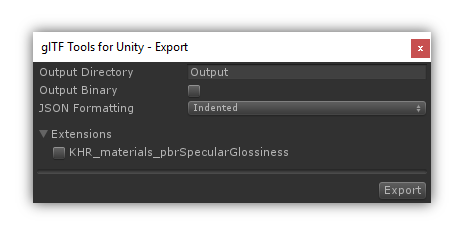
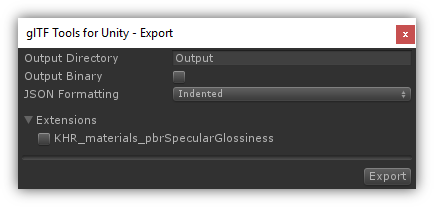
Various fixes - Add names to output images - Output one bin file instead of many - Output one samplers instead of many - Add generator property to asset

diff --git a/UnityProject/Assets/Gltf/Editor/Exporter.cs b/UnityProject/Assets/Gltf/Editor/Exporter.cs
@@ -74,27 +74,39 @@ namespace Gltf.Serialization
                 EditorGUI.indentLevel--;
             }
 
-            EditorGUILayout.TextArea(string.Empty, GUI.skin.horizontalSlider);
+            EditorGUILayout.LabelField(string.Empty, GUI.skin.horizontalSlider);
 
-            if (GUILayout.Button("Export", GUILayout.ExpandWidth(false)))
+            using (new GUILayout.HorizontalScope())
             {
-                var extensions = Extensions.None;
-                if (this.extension_KHR_materials_pbrSpecularGlossiness)
+                GUILayout.FlexibleSpace();
+                if (GUILayout.Button("Export"))
                 {
-                    extensions |= Extensions.KHR_materials_pbrSpecularGlossiness;
-                }
+                    var extensions = Extensions.None;
+                    if (this.extension_KHR_materials_pbrSpecularGlossiness)
+                    {
+                        extensions |= Extensions.KHR_materials_pbrSpecularGlossiness;
+                    }
 
-                Selection.gameObjects.ForEach(gameObject =>
-                {
-                    new[] { gameObject }.Export(this.outputDirectory, gameObject.name, this.outputBinary, this.jsonFormatting, extensions);
-                    Debug.LogFormat(gameObject, "[{0}] Exported {1}", DateTime.Now, gameObject.name);
-                });
+                    Selection.gameObjects.ForEach(gameObject =>
+                    {
+                        gameObject.Export(this.outputDirectory, gameObject.name, this.outputBinary, this.jsonFormatting, extensions);
+                        Debug.LogFormat(gameObject, "[{0}] Exported {1}", DateTime.Now, gameObject.name);
+                    });
+
+                    Debug.LogFormat("[{0}] Exported {1} game object(s)", DateTime.Now, Selection.gameObjects.Count());
+                }
             }
         }
     }
 
     public static class GameObjectExtensions
     {
+        public static void Export(this GameObject inputObject, string outputDirectory, string outputName, bool outputBinary, Formatting jsonFormatting, Extensions extensions)
+        {
+            var exporter = new Exporter();
+            exporter.Export(new[] { inputObject }, outputDirectory, outputName, outputBinary, jsonFormatting, extensions);
+        }
+
         public static void Export(this IEnumerable<GameObject> inputObjects, string outputDirectory, string outputName, bool outputBinary, Formatting jsonFormatting, Extensions extensions)
         {
             var exporter = new Exporter();
@@ -112,7 +124,7 @@ namespace Gltf.Serialization
         private string outputDirectory;
         private string outputName;
         private bool outputBinary;
-        private BinaryWriter binaryBodyWriter;
+        private BinaryWriter dataWriter;
         private Dictionary<UnityEngine.Object, int> objectToIndexCache;
         private List<Extension> extensions;
 
@@ -132,6 +144,7 @@ namespace Gltf.Serialization
             this.outputDirectory = outputDirectory;
             this.outputName = outputName;
             this.outputBinary = outputBinary;
+            this.dataWriter = new BinaryWriter(new MemoryStream());
 
             this.accessors = new List<Schema.Accessor>();
             this.buffers = new List<Schema.Buffer>();
@@ -143,11 +156,6 @@ namespace Gltf.Serialization
             this.nodes = new List<Schema.Node>();
             this.samplers = new List<Schema.Sampler>();
             this.textures = new List<Schema.Texture>();
-
-            if (this.outputBinary)
-            {
-                this.binaryBodyWriter = new BinaryWriter(new MemoryStream());
-            }
 
             Directory.CreateDirectory(this.outputDirectory);
 
@@ -170,7 +178,7 @@ namespace Gltf.Serialization
             var gltf = new Schema.Gltf
             {
                 Accessors = this.accessors,
-                Asset = new Schema.Asset { Version = "2.0" },
+                Asset = new Schema.Asset { Generator = "glTF Tools for Unity", Version = "2.0" },
                 BufferViews = this.bufferViews,
                 Buffers = this.buffers,
                 ExtensionsUsed = this.extensionsUsed,
@@ -196,25 +204,25 @@ namespace Gltf.Serialization
                 }
             };
 
+            this.dataWriter.Flush();
+            var dataBytes = ((MemoryStream)this.dataWriter.BaseStream).ToArray();
+
             if (outputBinary)
             {
-                this.binaryBodyWriter.Flush();
-                var binaryBodyBytes = ((MemoryStream)this.binaryBodyWriter.BaseStream).ToArray();
-
                 Debug.Assert(this.buffers.Count == 0);
-                this.ExportBuffer(null, binaryBodyBytes.Length);
+                this.ExportBuffer(null, dataBytes.Length);
 
-                byte[] binaryContentBytes;
-                using (var binaryContentWriter = new StreamWriter(new MemoryStream()))
+                byte[] contentBytes;
+                using (var contentWriter = new StreamWriter(new MemoryStream()))
                 {
-                    jsonSerializer.Serialize(binaryContentWriter, gltf);
-                    binaryContentWriter.Flush();
+                    jsonSerializer.Serialize(contentWriter, gltf);
+                    contentWriter.Flush();
 
                     // Start of binary data must be 4-byte aligned, so must pad scene json with spaces.
-                    binaryContentWriter.Write(new string(' ', (int)(4 - (binaryContentWriter.BaseStream.Position % 4))));
-                    binaryContentWriter.Flush();
+                    contentWriter.Write(new string(' ', (int)(4 - (contentWriter.BaseStream.Position % 4))));
+                    contentWriter.Flush();
 
-                    binaryContentBytes = ((MemoryStream)binaryContentWriter.BaseStream).ToArray();
+                    contentBytes = ((MemoryStream)contentWriter.BaseStream).ToArray();
                 }
 
                 using (var fileStream = new FileStream(Path.Combine(this.outputDirectory, this.outputName + ".glb"), FileMode.Create))
@@ -223,8 +231,8 @@ namespace Gltf.Serialization
                     // 20-byte header
                     byte[] magic = Encoding.ASCII.GetBytes("glTF");
                     uint version = 1;
-                    uint length = checked((uint)(20 + binaryContentBytes.Length + binaryBodyBytes.Length));
-                    uint contentLength = checked((uint)binaryContentBytes.Length);
+                    uint length = checked((uint)(20 + contentBytes.Length + dataBytes.Length));
+                    uint contentLength = checked((uint)contentBytes.Length);
                     uint contentFormat = (uint)BinaryContentFormat.JSON;
 
                     binaryWriter.Write(magic);
@@ -232,8 +240,8 @@ namespace Gltf.Serialization
                     binaryWriter.Write(length);
                     binaryWriter.Write(contentLength);
                     binaryWriter.Write(contentFormat);
-                    binaryWriter.Write(binaryContentBytes);
-                    binaryWriter.Write(binaryBodyBytes);
+                    binaryWriter.Write(contentBytes);
+                    binaryWriter.Write(dataBytes);
 
                     binaryWriter.Flush();
                     fileStream.Flush();
@@ -241,6 +249,10 @@ namespace Gltf.Serialization
             }
             else
             {
+                var bufferUri = this.outputName + ".bin";
+                this.ExportBuffer(bufferUri, dataBytes.Length);
+                File.WriteAllBytes(Path.Combine(this.outputDirectory, bufferUri), dataBytes);
+
                 using (var streamWriter = new StreamWriter(Path.Combine(this.outputDirectory, this.outputName + ".gltf")))
                 {
                     jsonSerializer.Serialize(streamWriter, gltf);
@@ -354,7 +366,7 @@ namespace Gltf.Serialization
                 {
                     material.PbrMetallicRoughness.BaseColorTexture = new Schema.MaterialTexture
                     {
-                        Index = this.ExportTexture(info._MainTex),
+                        Index = this.ExportTexture(info._MainTex, "baseColor"),
                     };
                 }
 
@@ -383,7 +395,7 @@ namespace Gltf.Serialization
 
                     material.PbrMetallicRoughness.MetallicRoughnessTexture = new Schema.MaterialTexture
                     {
-                        Index = this.ExportTexture(metallicRoughnessTexture),
+                        Index = this.ExportTexture(metallicRoughnessTexture, "metallicRoughness"),
                     };
                 }
 
@@ -408,7 +420,7 @@ namespace Gltf.Serialization
             {
                 material.NormalTexture = new Schema.MaterialNormalTexture
                 {
-                    Index = this.ExportTexture(info._BumpMap, true),
+                    Index = this.ExportTexture(info._BumpMap, "normal", true),
                     Scale = info._BumpScale,
                 };
             }
@@ -417,7 +429,7 @@ namespace Gltf.Serialization
             {
                 material.OcclusionTexture = new Schema.MaterialOcclusionTexture
                 {
-                    Index = this.ExportTexture(info._OcclusionMap),
+                    Index = this.ExportTexture(info._OcclusionMap, "occlusion"),
                     Strength = info._OcclusionStrength,
                 };
             }
@@ -428,12 +440,12 @@ namespace Gltf.Serialization
             {
                 material.EmissiveTexture = new Schema.MaterialTexture
                 {
-                    Index = this.ExportTexture(info._EmissionMap),
+                    Index = this.ExportTexture(info._EmissionMap, "emissive"),
                 };
             }
         }
 
-        private int ExportTexture(Texture2D unityTexture, bool normalMap = false)
+        private int ExportTexture(Texture2D unityTexture, string imageName, bool normalMap = false)
         {
             int index = -1;
             if (this.objectToIndexCache.TryGetValue(unityTexture, out index))
@@ -454,7 +466,7 @@ namespace Gltf.Serialization
 
                 if (this.outputBinary)
                 {
-                    var bufferViewIndex = this.ExportBufferView(0, this.binaryBodyWriter.BaseStream.Position, textureBytes.Length);
+                    var bufferViewIndex = this.ExportBufferView(0, this.dataWriter.BaseStream.Position, textureBytes.Length);
 
                     imageIndex = this.images.Count;
                     this.images.Add(new Schema.Image
@@ -463,12 +475,12 @@ namespace Gltf.Serialization
                         MimeType = "image/png",
                     });
 
-                    this.binaryBodyWriter.Write(textureBytes);
+                    this.dataWriter.Write(textureBytes);
                 }
                 else
                 {
                     imageIndex = this.images.Count;
-                    var imageUri = string.Format("{0}_image{1}.png", this.outputName, imageIndex);
+                    var imageUri = string.Format("{0}_{1}.png", this.outputName, imageName);
                     this.images.Add(new Schema.Image
                     {
                         Uri = imageUri,
@@ -477,15 +489,17 @@ namespace Gltf.Serialization
                     File.WriteAllBytes(Path.Combine(this.outputDirectory, imageUri), textureBytes);
                 }
 
-                var samplerIndex = this.samplers.Count;
-                this.samplers.Add(new Schema.Sampler
+                if (!this.samplers.Any())
                 {
-                });
+                    this.samplers.Add(new Schema.Sampler
+                    {
+                    });
+                }
 
                 index = this.textures.Count;
                 this.textures.Add(new Schema.Texture
                 {
-                    Sampler = samplerIndex,
+                    Sampler = 0,
                     Source = imageIndex,
                 });
             }
@@ -532,11 +546,6 @@ namespace Gltf.Serialization
                 if (unityMesh.normals.Any())
                 {
                     attributes.Add("NORMAL", this.ExportData(LeftHandToRightHand(unityMesh.normals)));
-                }
-
-                if (unityMesh.tangents.Any())
-                {
-                    attributes.Add("TANGENT", this.ExportData(LeftHandToRightHand(unityMesh.tangents)));
                 }
 
                 attributes.Add("POSITION", this.ExportData(LeftHandToRightHand(unityMesh.vertices)));

diff --git a/UnityProject/Assets/Gltf/Editor/Extensions/KHR_materials_pbrSpecularGlossiness.cs b/UnityProject/Assets/Gltf/Editor/Extensions/KHR_materials_pbrSpecularGlossiness.cs
@@ -52,7 +52,7 @@ namespace Gltf.Serialization
                 {
                     specularGlossiness.DiffuseTexture = new Gltf.Schema.MaterialTexture
                     {
-                        Index = this.exporter.ExportTexture(info._MainTex),
+                        Index = this.exporter.ExportTexture(info._MainTex, "diffuse"),
                     };
                 }
 
@@ -66,7 +66,7 @@ namespace Gltf.Serialization
                     specularGlossiness.GlossinessFactor = info._GlossMapScale;
                     specularGlossiness.SpecularGlossinessTexture = new Gltf.Schema.MaterialTexture
                     {
-                        Index = this.exporter.ExportTexture(info._SpecGlossMap),
+                        Index = this.exporter.ExportTexture(info._SpecGlossMap, "specularGlossiness"),
                     };
                 }
 
@@ -79,31 +79,6 @@ namespace Gltf.Serialization
 
                 material.Extensions.Add(this.GetType().Name, specularGlossiness);
             }
-
-            //private void ExportCommon(Material unityMaterial, Dictionary<string, object> values)
-            //{
-            //    var unityRenderingMode = (uint)info._Mode;
-            //    var alphaRenderingMode = Schema.AlphaRenderingMode.Opaque;
-            //    switch (unityRenderingMode)
-            //    {
-            //        case 0: // Opaque
-            //            alphaRenderingMode = Schema.AlphaRenderingMode.Opaque;
-            //            break;
-            //        case 1: // Cutout
-            //            alphaRenderingMode = Schema.AlphaRenderingMode.Cutout;
-            //            break;
-            //        case 2: // Fade
-            //            throw new NotSupportedException();
-            //        case 3: // Transparent
-            //            alphaRenderingMode = Schema.AlphaRenderingMode.Transparent;
-            //            break;
-            //    }
-            //    values.Add("alphaRenderingMode", alphaRenderingMode);
-            //    if (alphaRenderingMode == Schema.AlphaRenderingMode.Cutout)
-            //    {
-            //        values.Add("alphaCutoff", info._Cutoff);
-            //    }
-            //}
         }
     }
 }

diff --git a/UnityProject/Assets/Gltf/Editor/Exporter.Data.cs b/UnityProject/Assets/Gltf/Editor/Exporter.Data.cs
@@ -56,34 +56,13 @@ namespace Gltf.Serialization
 
         private int ExportData(Schema.AccessorType type, Schema.AccessorComponentType componentType, int componentSize, int count, IEnumerable<object> min, IEnumerable<object> max, int byteLength, Action<BinaryWriter> writeData)
         {
-            int accessorIndex;
+            // The offset of the data must be aligned to a multiple of the component size.
+            this.dataWriter.Align(componentSize);
 
-            if (this.outputBinary)
-            {
-                // The offset of the data must be aligned to a multiple of the component size.
-                this.binaryBodyWriter.Align(componentSize);
+            var bufferViewIndex = this.ExportBufferView(0, this.dataWriter.BaseStream.Position, byteLength);
+            var accessorIndex = this.ExportAccessor(bufferViewIndex, componentType, count, type, min, max);
 
-                var bufferViewIndex = this.ExportBufferView(0, this.binaryBodyWriter.BaseStream.Position, byteLength);
-                accessorIndex = this.ExportAccessor(bufferViewIndex, componentType, count, type, min, max);
-
-                writeData(this.binaryBodyWriter);
-            }
-            else
-            {
-                var bufferUri = string.Format("{0}_buffer{1}.bin", this.outputName, this.buffers.Count);
-                var bufferIndex = this.ExportBuffer(bufferUri, byteLength);
-                var bufferViewIndex = this.ExportBufferView(bufferIndex, 0, byteLength);
-                accessorIndex = this.ExportAccessor(bufferViewIndex, componentType, count, type, min, max);
-
-                using (var fileStream = new FileStream(Path.Combine(this.outputDirectory, bufferUri), FileMode.Create))
-                using (var binaryWriter = new BinaryWriter(fileStream))
-                {
-                    writeData(binaryWriter);
-
-                    binaryWriter.Flush();
-                    fileStream.Flush();
-                }
-            }
+            writeData(this.dataWriter);
 
             return accessorIndex;
         }

diff --git a/UnityProject/Assets/Gltf/Editor/Schema.cs b/UnityProject/Assets/Gltf/Editor/Schema.cs
@@ -78,6 +78,7 @@ namespace Gltf.Schema
     [Serializable]
     public class Asset : ChildOfRootProperty
     {
+        public string Generator;
         public string Version;
     }
 

diff --git a/README.md b/README.md
@@ -7,5 +7,6 @@ Import <a href="./glTF-Tools-for-Unity.unitypackage">glTF-Tools-for-Unity.unityp
 # Usage
 
 1. Right-click on an asset and click on the *glTF Tools for Unity* menu.
-2. Click on the *Export* item to bring up the export window.<br><img src="figures/Export.png" />
+2. Click on the *Export* item to bring up the export window.<br>
+   <img src="figures/Export.png" />
 3. Choose settings and click on Export button.
